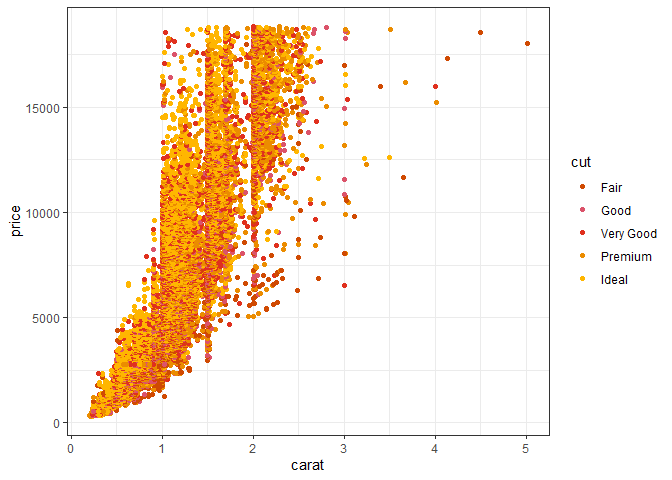
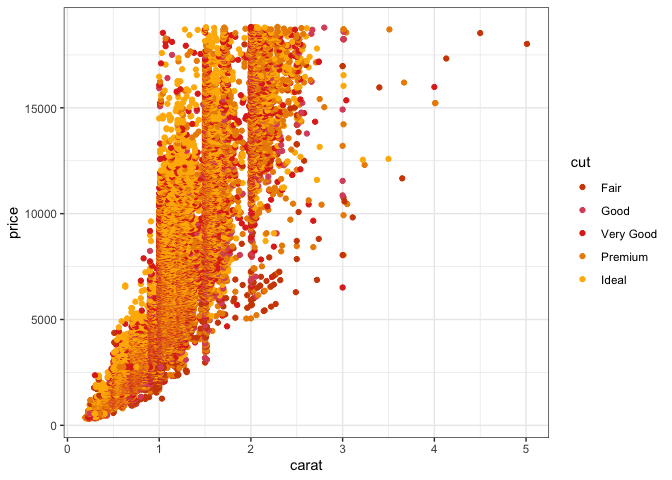
Oppdatert standard palette på discrete, gitt nytt navn til skaleringsfunksjonen. Lagt til pwc_pal i export/namespace.Lagt til eksempler i readme. Laget news.md

diff --git a/README.md b/README.md
@@ -4,17 +4,17 @@
 # fargepalett
 
 <!-- badges: start -->
-
 <!-- badges: end -->
 
 Målet med denne pakken er å gjøre det enkelt å bruke PwC sin fargepalett
 i visualiseringer laget med ggplot eller andre figurer. Hovedfunksjonene
 i pakken er “scale\_fill\_pwc” og “scale\_color\_pwc” som brukes for å
 bestemme fargepaletten som brukes i hhv fill- og color-dimensjonen i
-“aesthetic”. Både hex-kodene til fargene som lagt inn og alle
-foreslåtte paletter ligger vedlagt som data-sett i pakken slik at en
-kan bruke fargene i situasjoner hvor hovedfunksjonene ikke er
-tilstrekkelig.
+“aesthetic”. Både hex-kodene til fargene som lagt inn og alle foreslåtte
+paletter ligger vedlagt som data-sett i pakken slik at en kan bruke
+fargene i situasjoner hvor hovedfunksjonene ikke er tilstrekkelig. (Per
+nå må dette akksesseres ved hhv fargepalett:::pwc\_colors og
+fargepalett:::pwc\_palettes)
 
 Fargekodene og de foreslåtte palettene er hentet fra presentasjonen
 “PwCs farger og fargesammensetting”.
@@ -36,7 +36,6 @@ Under følger noen enkle eksempler på hvordan pakken kan brukes for å
 bruke PwC-fargene i figurer.
 
 ``` r
-# library(fargepalett)
 library(ggridges)
 theme_set(theme_bw())
 ```
@@ -68,9 +67,11 @@ diamonds %>%
 ## Fremtidig arbeid
 
 > “PwC-fargene er vel og bra, men det meste vi produserer er jo for
-> kunder og bør følge deres fargepalett\!”
-> 
+> kunder og bør følge deres fargepalett!”
+>
+> <footer>
 > — Anonym associate
+> </footer>
 
 “Anonym associate” har et godt poeng. En stor andel av de
 visualiseringene vi lager er for kunde, og ofte er det mer passende å
@@ -88,20 +89,20 @@ bedre.
 <https://color.adobe.com/create/color-wheel/>
 
 I tillegg står følgende punkter på todo-listen. Her setter jeg stor pris
-på tips og pull-requests fra de som ønsker å bidra\!
+på tips og pull-requests fra de som ønsker å bidra!
 
-  - Sørge for at scale-funksjonen oppdager selv om variabelen krever
+-   Sørge for at scale-funksjonen oppdager selv om variabelen krever
     kontinuerlig skala eller ikke.
-  - Utvide med flere paletter fra følgende presentasjon:
+-   Utvide med flere paletter fra følgende presentasjon:
     “201901\_Graphic\_Elements\_GLOBAL\_4.3”
     (<https://docs.google.com/presentation/d/1nyDO1_M-S7PggSTxPpW28jX8mLvZZurejDEfzKJ9bUM/edit#slide=id.p3>)
-  - Rydde i palettene som eksisterer, passe på at fargene er i naturlig
+-   Rydde i palettene som eksisterer, passe på at fargene er i naturlig
     rekkefølge.
-  - Lage vignett/funksjonalitet for å vise frem alle paletter/farger.
-  - Legge inn brukervennlige feilmeldinger når farge/palett er
+-   Lage vignett/funksjonalitet for å vise frem alle paletter/farger.
+-   Legge inn brukervennlige feilmeldinger når farge/palett er
     feilstavet eller ikke eksisterer.
-  - Forbedre dokumentasjon av datasett og funksjoner.
-  - Skrive tester der det er nødvendig.
+-   Forbedre dokumentasjon av datasett og funksjoner.
+-   Skrive tester der det er nødvendig.
 
 ## Farger og paletter
 
@@ -114,6 +115,24 @@ standard
 
 <img src="man/figures/README-unnamed-chunk-2-1.png" width="100%" />
 
+### PwC standard palette reordered
+
+``` r
+standard_reorder <- pwc_pal("pwc_palette2", for_print = TRUE)
+standard_reorder
+```
+
+<img src="man/figures/README-unnamed-chunk-3-1.png" width="100%" />
+
+### PwC standard palette reordered og utvidet
+
+``` r
+standard_reorder_exp <- pwc_pal("pwc_palette2_expanded", for_print = TRUE)
+standard_reorder_exp
+```
+
+<img src="man/figures/README-unnamed-chunk-4-1.png" width="100%" />
+
 ### PwC nøytral palette
 
 ``` r
@@ -121,7 +140,7 @@ neutral <- pwc_pal("pwc_neutral_palette", for_print = TRUE)
 neutral
 ```
 
-<img src="man/figures/README-unnamed-chunk-3-1.png" width="100%" />
+<img src="man/figures/README-unnamed-chunk-5-1.png" width="100%" />
 
 ### PwC Status palette
 
@@ -130,7 +149,7 @@ status <- pwc_pal("status_palette", for_print = TRUE)
 status
 ```
 
-<img src="man/figures/README-unnamed-chunk-4-1.png" width="100%" />
+<img src="man/figures/README-unnamed-chunk-6-1.png" width="100%" />
 
 ### Foreslåtte paletter
 
@@ -139,56 +158,56 @@ pal1 <- pwc_pal("pal1", for_print = TRUE)
 pal1
 ```
 
-<img src="man/figures/README-unnamed-chunk-5-1.png" width="100%" />
+<img src="man/figures/README-unnamed-chunk-7-1.png" width="100%" />
 
 ``` r
 pal2 <- pwc_pal("pal2", for_print = TRUE)
 pal2
 ```
 
-<img src="man/figures/README-unnamed-chunk-6-1.png" width="100%" />
+<img src="man/figures/README-unnamed-chunk-8-1.png" width="100%" />
 
 ``` r
 pal3 <- pwc_pal("pal3", for_print = TRUE)
 pal3
 ```
 
-<img src="man/figures/README-unnamed-chunk-7-1.png" width="100%" />
+<img src="man/figures/README-unnamed-chunk-9-1.png" width="100%" />
 
 ``` r
 pal4 <- pwc_pal("pal4", for_print = TRUE)
 pal4
 ```
 
-<img src="man/figures/README-unnamed-chunk-8-1.png" width="100%" />
+<img src="man/figures/README-unnamed-chunk-10-1.png" width="100%" />
 
 ``` r
 pal5 <- pwc_pal("pal5", for_print = TRUE)
 pal5
 ```
 
-<img src="man/figures/README-unnamed-chunk-9-1.png" width="100%" />
+<img src="man/figures/README-unnamed-chunk-11-1.png" width="100%" />
 
 ``` r
 pal6 <- pwc_pal("pal6", for_print = TRUE)
 pal6
 ```
 
-<img src="man/figures/README-unnamed-chunk-10-1.png" width="100%" />
+<img src="man/figures/README-unnamed-chunk-12-1.png" width="100%" />
 
 ``` r
 pal7 <- pwc_pal("pal7", for_print = TRUE)
 pal7
 ```
 
-<img src="man/figures/README-unnamed-chunk-11-1.png" width="100%" />
+<img src="man/figures/README-unnamed-chunk-13-1.png" width="100%" />
 
 ``` r
 pal8 <- pwc_pal("pal8", for_print = TRUE)
 pal8
 ```
 
-<img src="man/figures/README-unnamed-chunk-12-1.png" width="100%" />
+<img src="man/figures/README-unnamed-chunk-14-1.png" width="100%" />
 
 ### Paletter i samme farge
 
@@ -197,7 +216,7 @@ orange <- pwc_pal("orange_palette", for_print = TRUE)
 orange
 ```
 
-<img src="man/figures/README-unnamed-chunk-13-1.png" width="100%" />
+<img src="man/figures/README-unnamed-chunk-15-1.png" width="100%" />
 
 ``` r
 # tangerine <- pwc_pal("tangerine_palette", for_print = TRUE)
@@ -209,32 +228,79 @@ yellow <- pwc_pal("yellow_palette", for_print = TRUE)
 yellow
 ```
 
-<img src="man/figures/README-unnamed-chunk-15-1.png" width="100%" />
+<img src="man/figures/README-unnamed-chunk-17-1.png" width="100%" />
 
 ``` r
 rose <- pwc_pal("rose_palette", for_print = TRUE)
 rose
 ```
 
-<img src="man/figures/README-unnamed-chunk-16-1.png" width="100%" />
+<img src="man/figures/README-unnamed-chunk-18-1.png" width="100%" />
 
 ``` r
 purple <- pwc_pal("purple_palette", for_print = TRUE)
 purple
 ```
 
-<img src="man/figures/README-unnamed-chunk-17-1.png" width="100%" />
+<img src="man/figures/README-unnamed-chunk-19-1.png" width="100%" />
 
 ``` r
 blue <- pwc_pal("blue_palette", for_print = TRUE)
 blue
 ```
 
-<img src="man/figures/README-unnamed-chunk-18-1.png" width="100%" />
+<img src="man/figures/README-unnamed-chunk-20-1.png" width="100%" />
 
 ``` r
 green <- pwc_pal("green_palette", for_print = TRUE)
 green
 ```
 
-<img src="man/figures/README-unnamed-chunk-19-1.png" width="100%" />
+<img src="man/figures/README-unnamed-chunk-21-1.png" width="100%" />
+
+## Logikk for valg av farger i palette
+
+Det er lagt inn logikk, slik at dersom color/fill inneholder flere
+kategorier enn farger i paletten, så konstrueres det farger basert på
+gitt palette. Som retningslinje, bør man alltid benytte en palette med
+nok farger for å få frem alle gruppene, men dersom det ikke går, vil
+denne logikken sikre at det er mulig å produsere plott med ulike farger
+
+#### Eksempel hvor farger skaleres
+
+I dette tilfellet bør man velge en skala med store forskjeller mellom
+fargene, ettersom skaleringsfunksjonen lager en farge ca. midt mellom
+fargene til høyre og venstre
+
+``` r
+mpg %>%
+  ggplot(aes(x = displ, fill = as.factor(manufacturer))) +
+  geom_bar(color = "white", size = 0.25) +
+  scale_fill_pwc_d(palette = "pwc_palette2_expanded", reverse = F) +
+  theme(
+    legend.position = "bottom",
+    legend.margin = margin(t = -0.5, unit = "cm")
+  ) + 
+  scale_y_continuous(expand = expansion()) +
+  labs(y = "Number of cars", title = "Engine displacement in liters by class of car", x = "", fill = "")
+```
+
+<img src="man/figures/README-unnamed-chunk-22-1.png" width="100%" />
+\#\#\#\# Eksempel hvor farger ikke skaleres
+
+``` r
+mpg %>%
+  filter(manufacturer %in% c("audi", "chevrolet", "dodge", "ford", "honda", "hyundai", "jeep",
+"land rover", "lincoln")) %>%
+  ggplot(aes(x = displ, fill = as.factor(manufacturer))) +
+  geom_bar(color = "white", size = 0.25) +
+  scale_fill_pwc_d(palette = "pwc_palette2_expanded", reverse = F) +
+  theme(
+    legend.position = "bottom",
+    legend.margin = margin(t = -0.5, unit = "cm")
+  ) + 
+  scale_y_continuous(expand = expansion()) +
+  labs(y = "Number of cars", title = "Engine displacement in liters by class of car", x = "", fill = "")
+```
+
+<img src="man/figures/README-unnamed-chunk-23-1.png" width="100%" />

diff --git a/NEWS.md b/NEWS.md
@@ -1,0 +1,15 @@
+# fargepalett 0.0.3
+
+* Updated theme to fit the standard PwC layout
+* Added pwc_palette2 which is a reordered version of pwc_palette to increase contrast
+* Added pwc_palette2_expanded that includes more colors with high(est) possible visual contrast between them
+* Included the scale_color function that uses the given palette, given that there is enough colors, otherwise it constructs new ones
+
+## TODOS:
+* Add a style guide for PwC plots
+* Add more palettes and descibe when they should be used, in line with guidelines from PwC
+* Include or link to resources and gallery of plots for inspiration
+* Figure out a good way to format tables (using GT or DT?)
+* Include a PwC markdown theme (might be wise to rename package name if used)
+* Document and use a single language for names/doc (English > Norwegian?)
+
